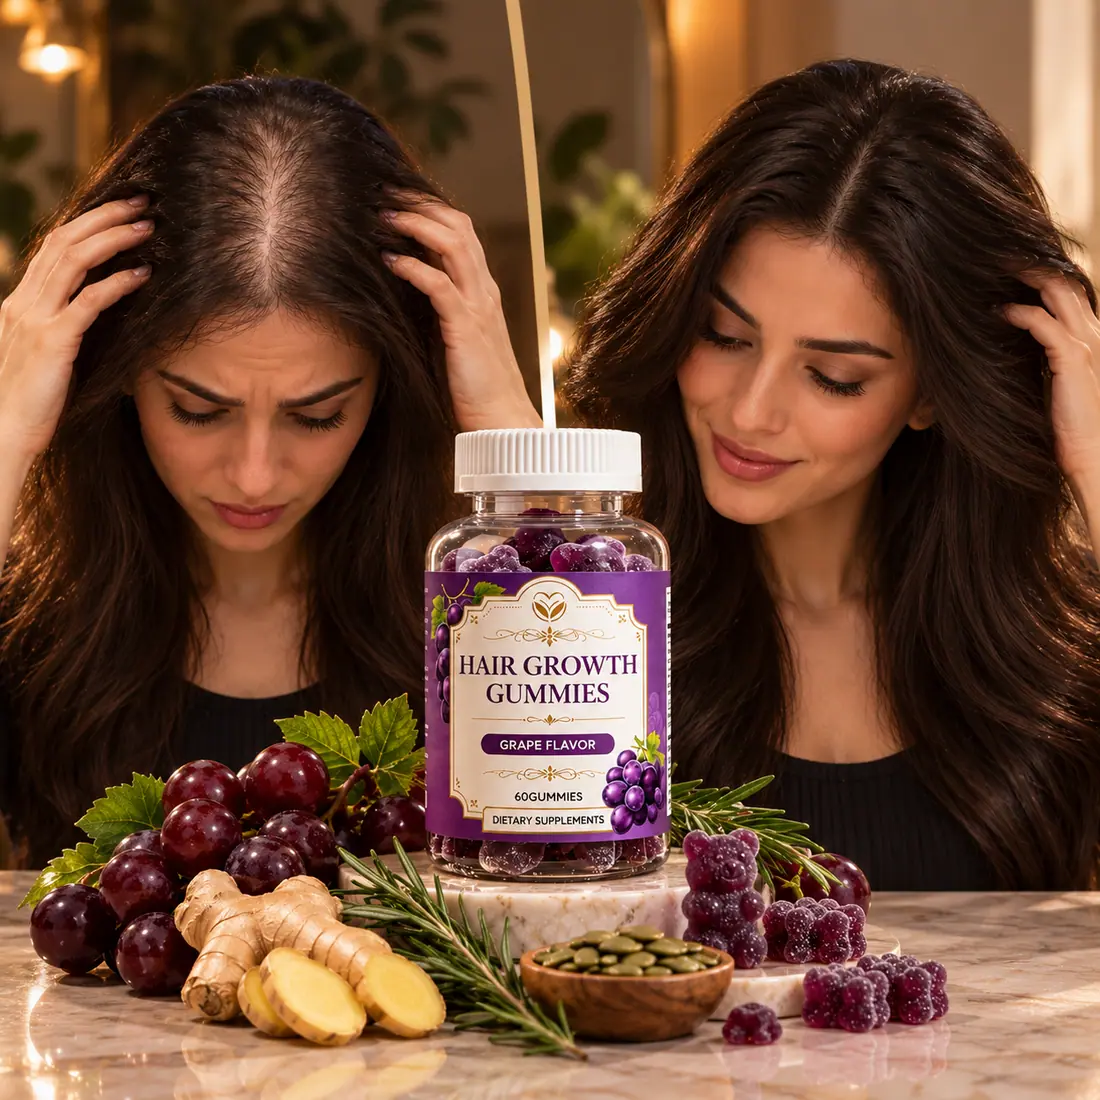
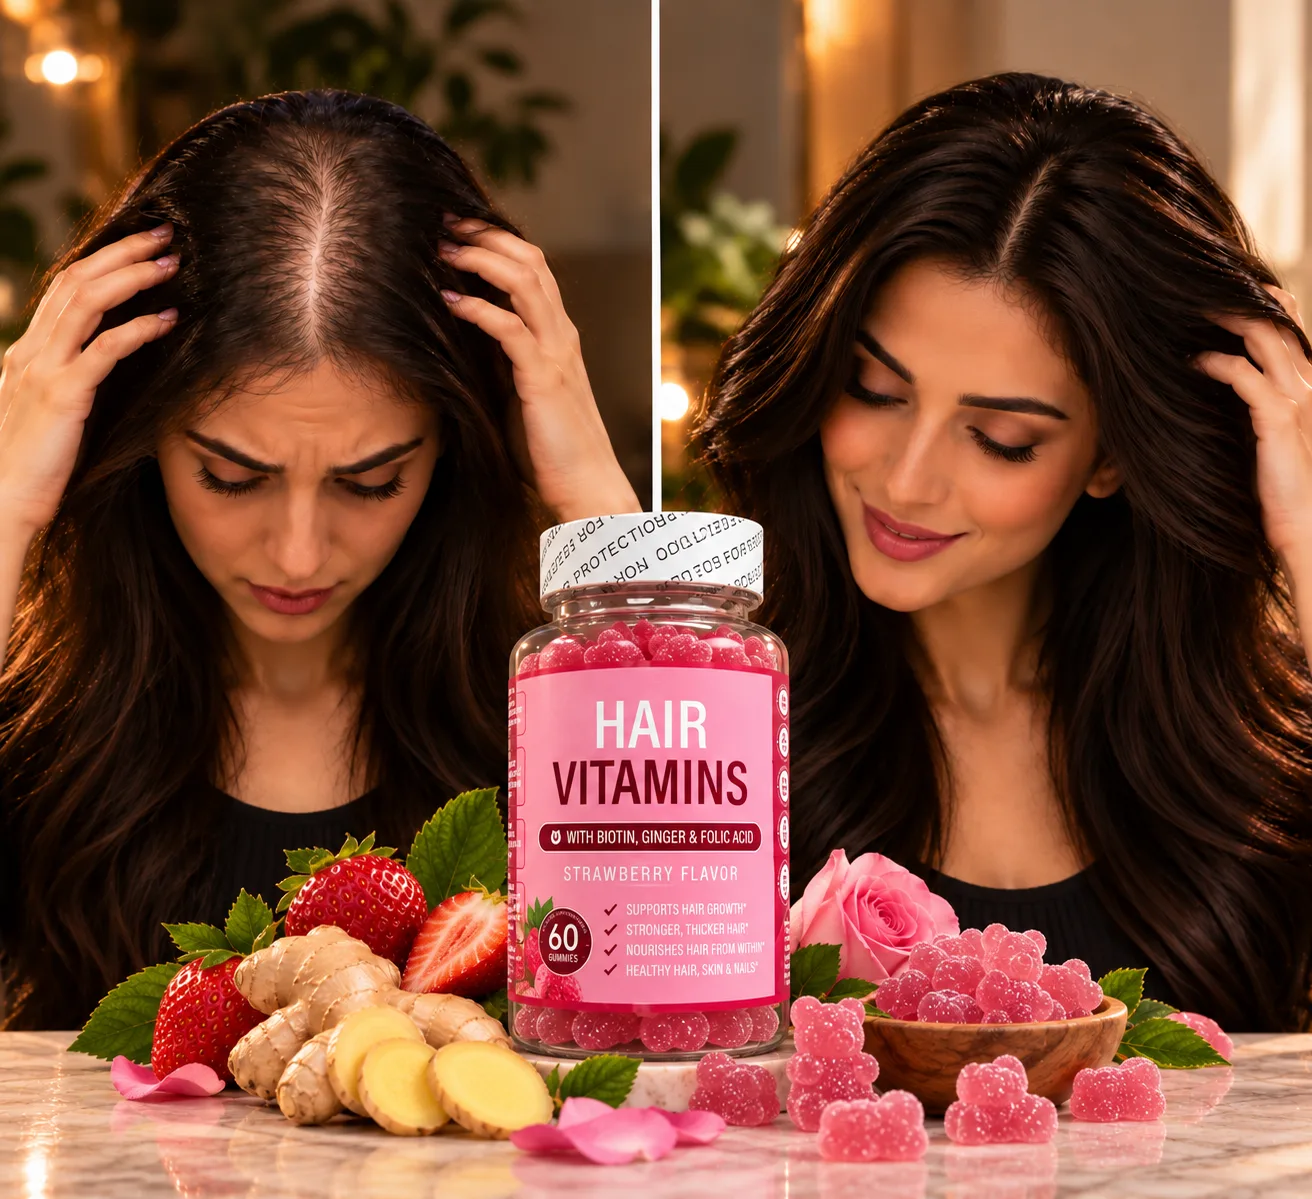
fix(pdp): hair hero from ChatGPT 07_16_34 master only
Regenerate hair-main.webp for /products/hair-gummies from
ChatGPT Image Sep 24, 2026, 07_16_34 PM.png. No other pages.

diff --git a/src/config/images.ts b/src/config/images.ts
@@ -29,7 +29,7 @@ export const images = {
    */
   productPage: {
     hair: {
-      src: "/images/products/pdp/hair-main.webp?v=20261007",
+      src: "/images/products/pdp/hair-main.webp?v=20261012",
       storySrc: "/images/products/pdp/hair-story.webp?v=20261007",
       upsellSlotSrc: {
         1: "/images/products/pdp/upsell/hair-qty-1.webp?v=20261007",
